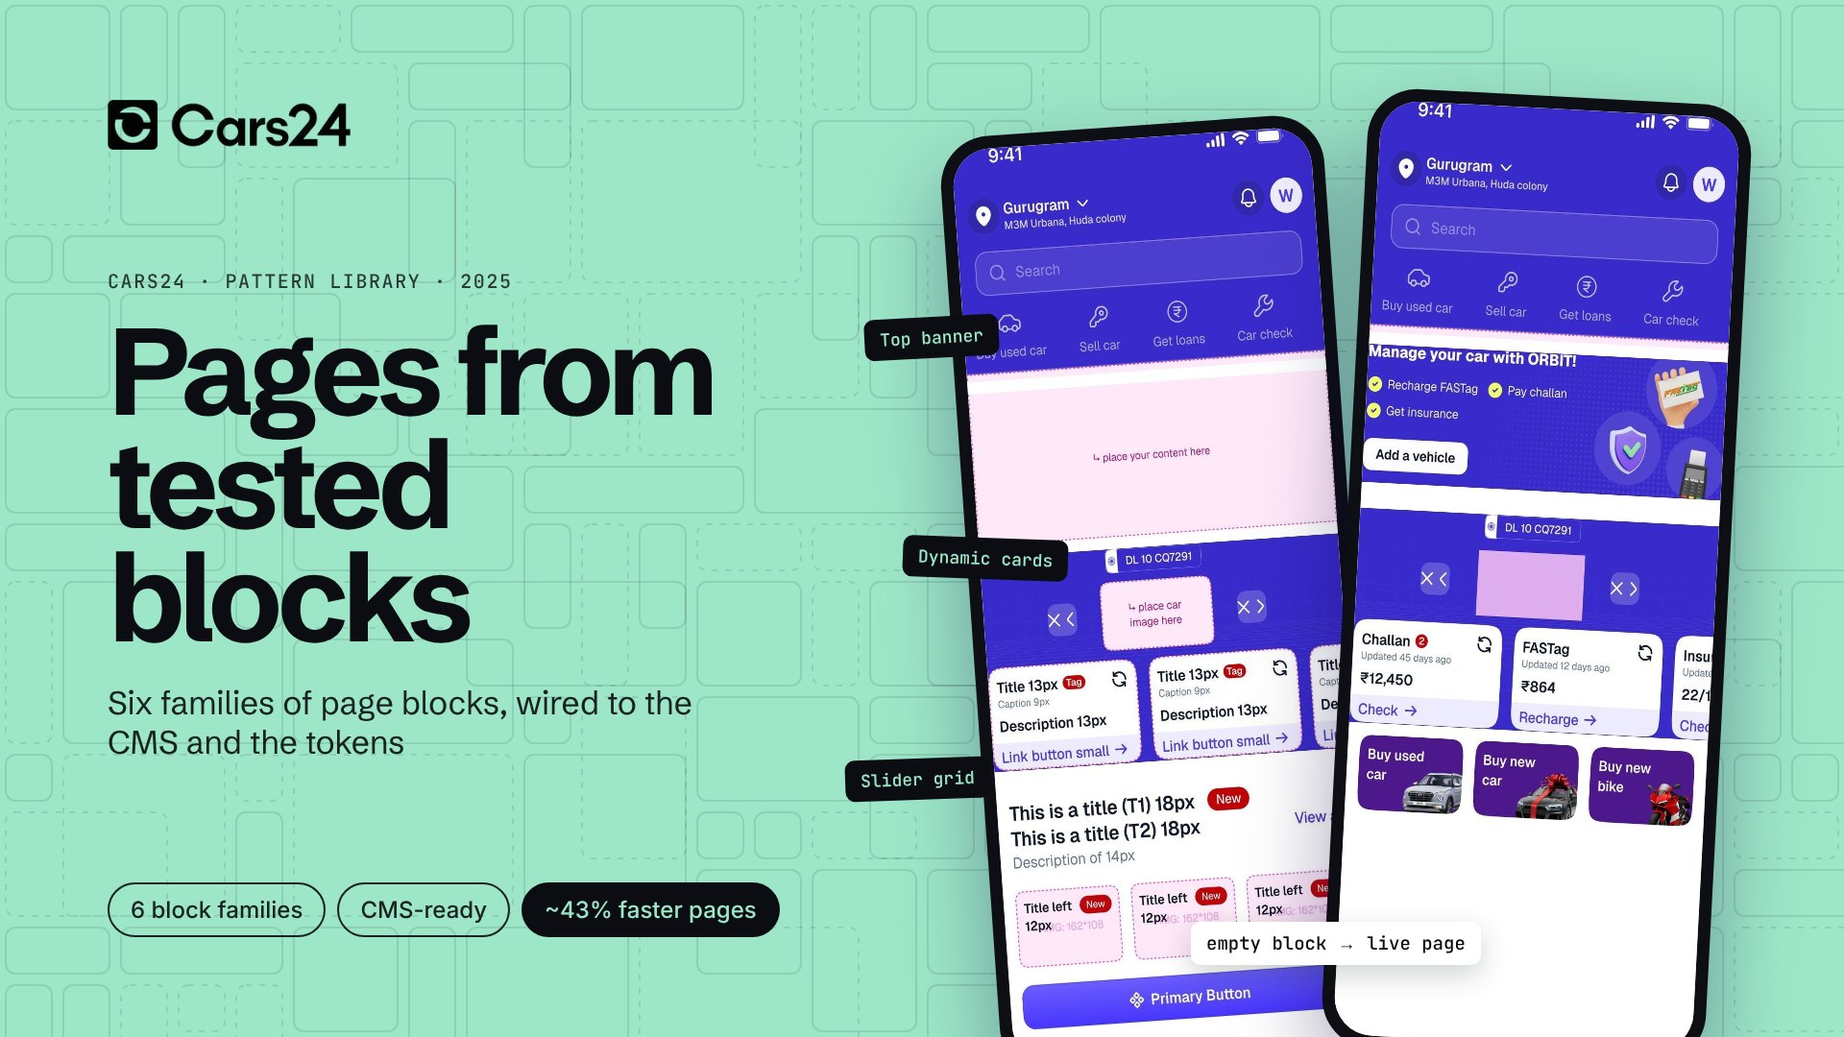
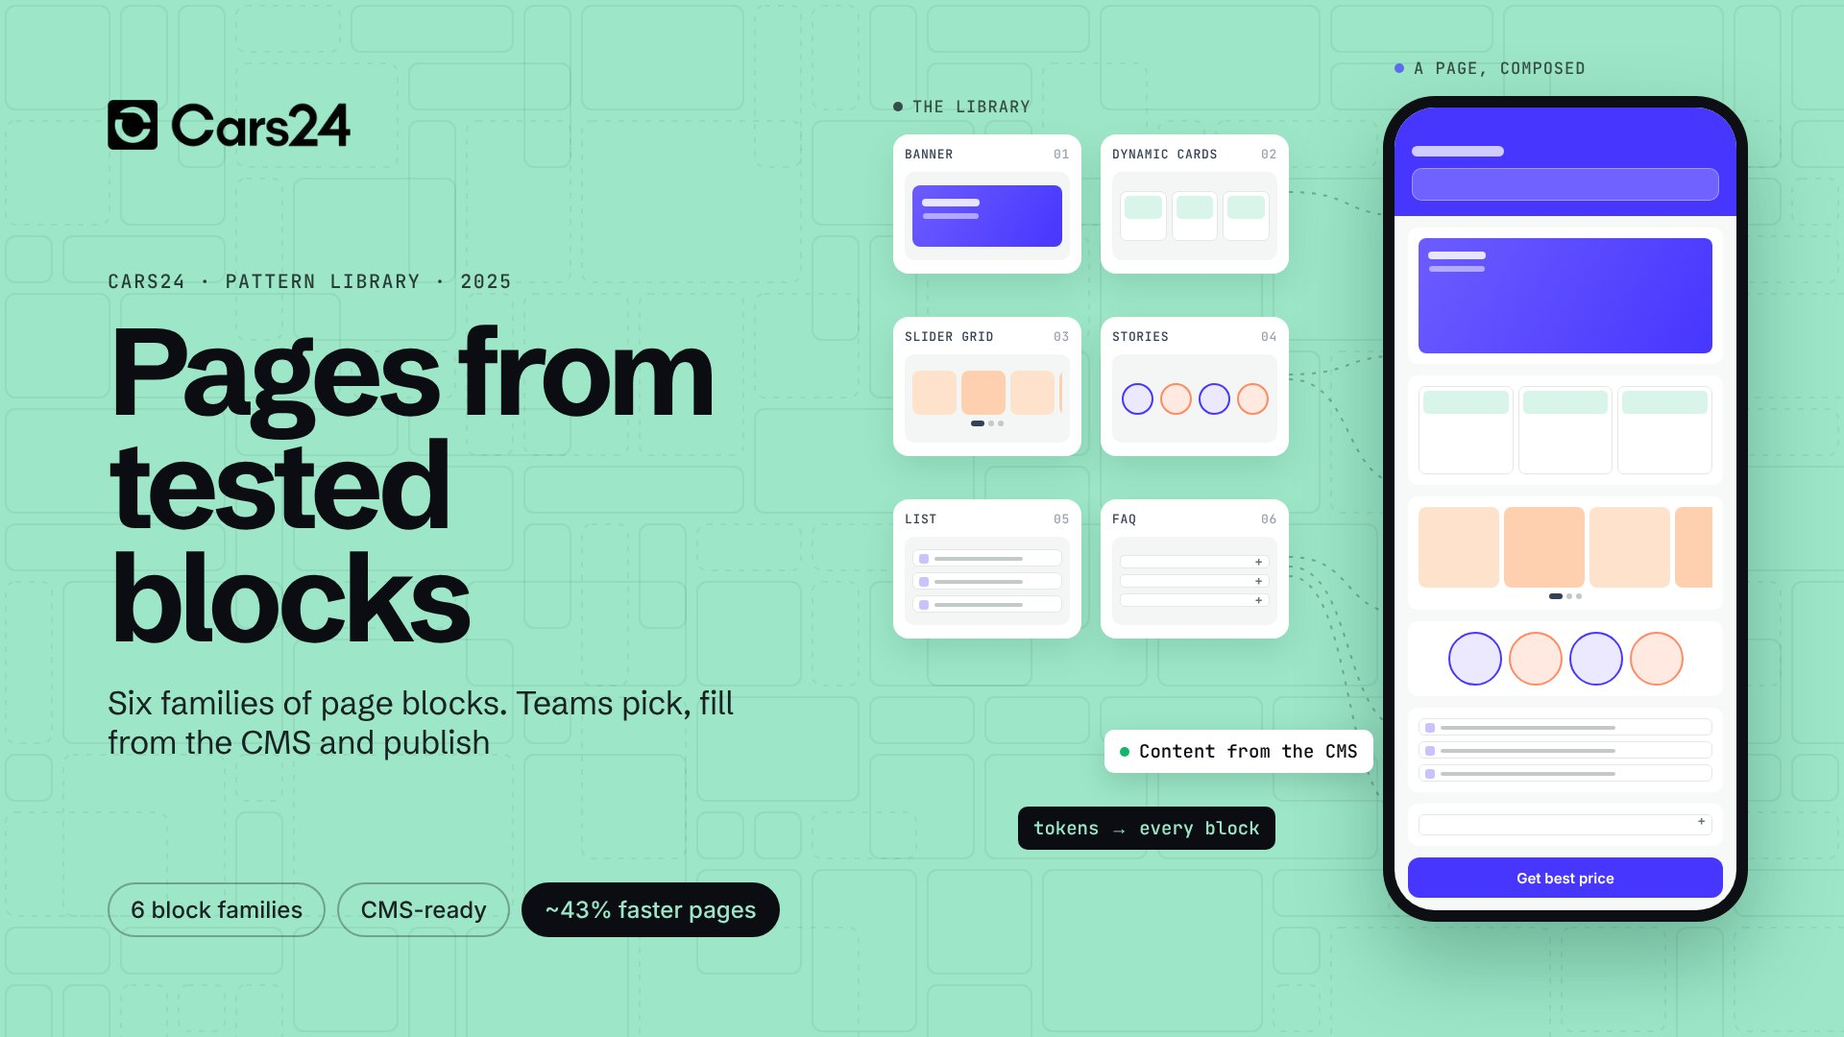
Redraw the colour system and pattern library cards as illustrations
The two cards used cropped screenshots that read as broken. Both are now
drawn illustrations that tell the story at a glance, in softer colours:

- Colour system: five near-identical blues from five codebases merge
  into one token (with its OKLCH ramp), which flows into three app
  screens for India, the UAE (right to left) and Australia.
- Pattern library: the six block families as small wireframes, linked
  to a phone page composed from those same blocks, with "content from
  the CMS" and "tokens → every block".

Backgrounds are quieter (a soft glow with a dot grid, and a fainter
block grid). Also removes leftover ramp code that stopped the
governance card's background lines from drawing.

Claude-Session: https://claude.ai/code/session_01QAnL3MhnS9saJHDLA9Mmcj

diff --git a/tools/covers/cars24_cards.html b/tools/covers/cars24_cards.html
@@ -59,6 +59,68 @@ img { display: block; }
 /* ---------- pattern library ---------- */
 #pat { background: #9de7c8; color: #0b0d12; }
 .blk { font: 500 18px "JetBrains Mono"; padding: 10px 16px; border-radius: 10px; background: #0b0d12; color: #9de7c8; z-index: 3; white-space: nowrap; }
+
+/* ---------- shared illustration bits ---------- */
+.mp { width: 236px; height: 486px; border-radius: 38px; padding: 9px; background: #0e0f14; box-shadow: 0 30px 60px rgb(10 0 60 / .28); z-index: 2; }
+.mp .sc { height: 100%; border-radius: 30px; overflow: hidden; background: #f7f7fb; display: flex; flex-direction: column; font-family: Inter, sans-serif; }
+.mp .hd { background: var(--b, #4736fe); padding: 26px 14px 14px; display: grid; gap: 10px; }
+.mp .loc { height: 9px; width: 70px; border-radius: 5px; background: rgb(255 255 255 / .75); }
+.mp .srch { height: 26px; border-radius: 8px; background: rgb(255 255 255 / .22); border: 1px solid rgb(255 255 255 / .35); }
+.mp .tabs { display: flex; justify-content: space-between; padding: 2px 4px 0; }
+.mp .tabs i { width: 30px; height: 20px; border-radius: 6px; background: rgb(255 255 255 / .3); }
+.mp .tabs i:first-child { background: #fff; }
+.mp .bd { padding: 14px 12px; display: grid; gap: 10px; }
+.mp .h { height: 10px; width: 96px; border-radius: 5px; background: #1d2433; }
+.mp .tiles { display: grid; grid-template-columns: repeat(3, 1fr); gap: 7px; }
+.mp .tiles i { height: 54px; border-radius: 10px; background: var(--b, #4736fe); opacity: .9; }
+.mp .tiles i:nth-child(2) { opacity: .7; } .mp .tiles i:nth-child(3) { opacity: .5; }
+.mp .lc { background: #fff; border-radius: 12px; padding: 10px; display: grid; gap: 7px; border: 1px solid #ececf3; }
+.mp .lc .im { height: 58px; border-radius: 8px; background: linear-gradient(135deg, #e6e3ff, #f4f3ff); position: relative; }
+.mp .lc .im b { position: absolute; left: 6px; top: 6px; font: 600 8px Inter; padding: 2px 6px; border-radius: 4px; background: #5dfda6; color: #10322a; }
+.mp .lc .t { height: 7px; width: 80%; border-radius: 4px; background: #c9ccd6; }
+.mp .lc .pr { font: 700 13px Inter; color: #101828; }
+.mp .lc .pr span { font: 500 9px Inter; color: #b54708; margin-left: 6px; }
+.mp .cta { margin-top: 2px; height: 30px; border-radius: 9px; background: var(--b, #4736fe); color: #fff; font: 600 11px Inter; display: grid; place-items: center; }
+.mkt { font: 500 17px "JetBrains Mono"; letter-spacing: .06em; text-transform: uppercase; z-index: 3; display: flex; gap: 10px; align-items: center; }
+.mkt i { width: 10px; height: 10px; border-radius: 50%; background: #5dfda6; }
+.hex { display: flex; align-items: center; gap: 12px; padding: 12px 16px; border-radius: 14px; background: rgb(255 255 255 / .10); border: 1px solid rgb(255 255 255 / .16); z-index: 3; }
+.hex i { width: 30px; height: 30px; border-radius: 8px; flex: none; }
+.hex b { display: block; font: 500 18px "JetBrains Mono"; }
+.hex small { display: block; font: 400 13px "JetBrains Mono"; opacity: .7; margin-top: 2px; }
+.tokpill { display: flex; align-items: center; gap: 16px; padding: 16px 22px 16px 16px; border-radius: 18px; background: #fff; color: #101828; box-shadow: 0 24px 60px rgb(10 0 60 / .3); z-index: 3; }
+.tokpill i { width: 48px; height: 48px; border-radius: 12px; background: #4736fe; }
+.tokpill b { display: block; font: 500 26px "JetBrains Mono"; }
+.tokpill small { display: block; font: 400 15px "JetBrains Mono"; color: #667085; margin-top: 2px; }
+.mramp { display: flex; gap: 4px; z-index: 3; }
+.mramp i { width: 30px; height: 14px; border-radius: 4px; }
+
+/* pattern library illustration */
+.fam { width: 196px; background: #fff; border-radius: 16px; padding: 12px 12px 14px; box-shadow: 0 14px 34px rgb(0 60 40 / .12); z-index: 3; display: grid; gap: 10px; }
+.fam .lab { font: 500 13px "JetBrains Mono"; letter-spacing: .05em; text-transform: uppercase; color: #344054; display: flex; justify-content: space-between; }
+.fam .lab em { font-style: normal; color: #98a2b3; }
+.wf { border-radius: 10px; background: #f4f6f5; padding: 8px; display: grid; gap: 6px; height: 92px; align-content: center; }
+.wf .bn { height: 64px; border-radius: 8px; background: linear-gradient(120deg, #6c5cff, #4736fe); position: relative; }
+.wf .bn::after { content: ""; position: absolute; left: 10px; top: 14px; width: 60px; height: 8px; border-radius: 4px; background: rgb(255 255 255 / .85); box-shadow: 0 14px 0 -1px rgb(255 255 255 / .5); }
+.wf .row3 { display: grid; grid-template-columns: repeat(3, 1fr); gap: 5px; }
+.wf .row3 i { height: 52px; border-radius: 7px; background: #fff; border: 1px solid #e3e8e6; }
+.wf .row3 i::before { content: ""; display: block; height: 24px; margin: 4px; border-radius: 5px; background: #d9f5e9; }
+.wf .sl { display: flex; gap: 5px; overflow: hidden; }
+.wf .sl i { flex: none; width: 46px; height: 46px; border-radius: 8px; background: #ffe2cc; }
+.wf .sl i:nth-child(2n) { background: #ffd0b0; }
+.wf .dots { display: flex; gap: 4px; justify-content: center; } .wf .dots i { width: 6px; height: 6px; border-radius: 50%; background: #c2c9c6; } .wf .dots i:first-child { background: #344054; width: 14px; border-radius: 3px; }
+.wf .ls { height: 18px; border-radius: 6px; background: #fff; border: 1px solid #e3e8e6; position: relative; }
+.wf .ls::before { content: ""; position: absolute; left: 6px; top: 4px; width: 10px; height: 10px; border-radius: 3px; background: #c9c2ff; }
+.wf .ls::after { content: ""; position: absolute; left: 22px; top: 7px; width: 60%; height: 4px; border-radius: 2px; background: #c2c9c6; }
+.wf .st { display: flex; gap: 7px; justify-content: center; } .wf .st i { width: 33px; height: 33px; border-radius: 50%; border: 2.5px solid #4736fe; background: #ece9ff; } .wf .st i:nth-child(2n) { border-color: #ff8a63; background: #ffe9e1; }
+.wf .fq { height: 14px; border-radius: 5px; background: #fff; border: 1px solid #e3e8e6; position: relative; } .wf .fq::after { content: "+"; position: absolute; right: 6px; top: -3px; font: 600 13px Inter; color: #667085; }
+.pp { width: 380px; height: 860px; border-radius: 54px; padding: 12px; background: #0e0f14; box-shadow: 0 40px 90px rgb(0 60 40 / .3); z-index: 2; }
+.pp .sc { height: 100%; border-radius: 42px; overflow: hidden; background: #f7f8f8; display: flex; flex-direction: column; gap: 12px; }
+.pp .hd { background: #4736fe; padding: 40px 18px 16px; display: grid; gap: 12px; }
+.pp .hd .loc { height: 11px; width: 96px; border-radius: 6px; background: rgb(255 255 255 / .75); }
+.pp .hd .srch { height: 34px; border-radius: 10px; background: rgb(255 255 255 / .22); border: 1px solid rgb(255 255 255 / .35); }
+.pp .blk2 { margin: 0 14px; position: relative; }
+.pp .blk2.wf { height: auto; padding: 10px; background: #fff; border: 1.5px dashed transparent; }
+.tagl { font: 500 15px "JetBrains Mono"; padding: 7px 12px; border-radius: 8px; background: #0b0d12; color: #9de7c8; white-space: nowrap; z-index: 4; }
 </style>
 </head>
 <body>
@@ -66,30 +128,33 @@ img { display: block; }
 <!-- ======================= Colour system ======================= -->
 <section class="scene" id="tokens">
   <svg class="pat" aria-hidden="true"><defs>
-    <radialGradient id="tf" cx="78%" cy="45%" r="70%"><stop offset="0" stop-color="#fff" stop-opacity="1"/><stop offset="1" stop-color="#fff" stop-opacity="0"/></radialGradient>
+    <radialGradient id="tg" cx="80%" cy="20%" r="75%"><stop offset="0" stop-color="#7c6dff"/><stop offset="1" stop-color="#4736fe" stop-opacity="0"/></radialGradient>
+    <radialGradient id="tf" cx="70%" cy="55%" r="60%"><stop offset="0" stop-color="#fff"/><stop offset="1" stop-color="#fff" stop-opacity="0"/></radialGradient>
     <mask id="tm"><rect width="1920" height="1080" fill="url(#tf)"/></mask>
-    <pattern id="tp" width="40" height="40" patternUnits="userSpaceOnUse"><rect x="4" y="4" width="32" height="32" rx="8" fill="#fff" fill-opacity=".09"/></pattern></defs>
+    <pattern id="tp" width="32" height="32" patternUnits="userSpaceOnUse"><circle cx="16" cy="16" r="1.6" fill="#fff" fill-opacity=".22"/></pattern></defs>
+    <rect width="1920" height="1080" fill="url(#tg)"/>
     <rect width="1920" height="1080" fill="url(#tp)" mask="url(#tm)"/>
-    <g fill="none" stroke="#9de7c8" stroke-opacity=".35" stroke-width="2"><circle cx="1500" cy="540" r="470"/><circle cx="1500" cy="540" r="390" stroke-dasharray="4 12"/></g>
   </svg>
+  <svg class="pat" aria-hidden="true" id="tlines" style="z-index:1"></svg>
   <div class="col">
     <img class="logo" src="../../assets/logos/wordmark-cars24.png" alt="">
-    <div class="mid"><p class="eyebrow">CARS24 · Colour and tokens · 2024–25</p><h1>One colour system</h1><p class="sub">A new palette in OKLCH and four token layers, for 10+ products in three countries</p></div>
-    <div class="row"><span class="chip">10+ products</span><span class="chip">4 token layers</span><span class="chip solid" style="background:#5dfda6;border-color:#5dfda6;color:#1a1060">65% faster handoff</span></div>
+    <div class="mid"><p class="eyebrow">CARS24 · Colour and tokens · 2024–25</p><h1>One colour system</h1><p class="sub">Five blues in five codebases became one token, used by every product in three countries</p></div>
+    <div class="row"><span class="chip" style="border-color:rgb(255 255 255 / .45)">10+ products</span><span class="chip" style="border-color:rgb(255 255 255 / .45)">4 token layers</span><span class="chip solid" style="background:#5dfda6;border-color:#5dfda6;color:#1a1060">65% faster handoff</span></div>
   </div>
-  <div class="card" style="left:930px;top:150px;width:860px;transform:rotate(-2deg)">
-    <div style="padding:22px 26px 14px;display:flex;justify-content:space-between"><span class="k">color-blue · OKLCH ramp</span><span class="k" style="color:#4736fe">500 = brand</span></div>
-    <div class="ramp" id="ramp"></div>
-  </div>
-  <div class="card" style="left:1010px;top:470px;width:760px;transform:rotate(1.5deg)">
-    <div class="chain">
-      <div class="lvl"><span>Primitive</span><code><i class="sw"></i>color-blue-500</code></div>
-      <div class="lvl"><span>Semantic</span><code>color-action-primary</code></div>
-      <div class="lvl"><span>Component</span><code>button-background-primary</code></div>
-      <div class="lvl"><span>Theme</span><code style="background:#e9fbf3;color:#0a6b47">india · uae · au · nbfc</code></div>
-    </div>
-  </div>
-  <div class="card" style="left:1460px;top:770px;width:360px;height:220px;transform:rotate(-3deg);z-index:3"><img src="../../assets/work/tokens/hero.jpg" style="width:200%;margin-left:-100%;margin-top:-30px"></div>
+  <div class="mkt" style="left:930px;top:96px;opacity:.75"><i style="background:#ffb4a1"></i>Before · one blue, five codes</div>
+  <div class="hex" style="left:930px;top:140px"><i style="background:#0059A3"></i><div><b>#0059A3</b><small>seller/colors.ts</small></div></div>
+  <div class="hex" style="left:1110px;top:150px"><i style="background:#005AA5"></i><div><b>#005AA5</b><small>loans/theme.js</small></div></div>
+  <div class="hex" style="left:1290px;top:140px"><i style="background:#0058A1"></i><div><b>#0058A1</b><small>buyer/_vars.scss</small></div></div>
+  <div class="hex" style="left:1470px;top:150px"><i style="background:#0A5BA4"></i><div><b>#0A5BA4</b><small>uae/styles.css</small></div></div>
+  <div class="hex" style="left:1650px;top:140px;padding-right:12px"><i style="background:#0059A4"></i><div><b>#0059A4</b><small>new-cars.json</small></div></div>
+  <div class="tokpill" style="left:1140px;top:290px"><i></i><div><b>color-brand-primary</b><small>one token · OKLCH · every product</small></div></div>
+  <div class="mramp" id="mramp" style="left:1196px;top:392px"></div>
+  <div class="mkt" style="left:960px;top:470px"><i></i>India · ₹</div>
+  <div class="mkt" style="left:1268px;top:470px"><i></i>UAE · AED</div>
+  <div class="mkt" style="left:1576px;top:470px"><i></i>Australia · $</div>
+  <div class="mp" style="left:950px;top:510px"><div class="sc"><div class="hd"><div class="loc"></div><div class="srch"></div><div class="tabs"><i></i><i></i><i></i><i></i></div></div><div class="bd"><div class="h"></div><div class="tiles"><i></i><i></i><i></i></div><div class="lc"><div class="im"><b>Assured</b></div><div class="t"></div><div class="pr">₹9.85 lakh<span>EMI ₹15,640</span></div></div><div class="cta">Get best price</div></div></div></div>
+  <div class="mp" style="left:1258px;top:510px"><div class="sc"><div class="hd"><div class="loc" style="margin-left:auto"></div><div class="srch"></div><div class="tabs"><i></i><i></i><i></i><i></i></div></div><div class="bd"><div class="h" style="margin-left:auto"></div><div class="tiles"><i></i><i></i><i></i></div><div class="lc" dir="rtl"><div class="im"><b style="left:auto;right:6px">مضمونة</b></div><div class="t"></div><div class="pr" style="font-family:Inter">AED 54,900</div></div><div class="cta">احصل على أفضل سعر</div></div></div></div>
+  <div class="mp" style="left:1566px;top:510px"><div class="sc"><div class="hd"><div class="loc"></div><div class="srch"></div><div class="tabs"><i></i><i></i><i></i><i></i></div></div><div class="bd"><div class="h"></div><div class="tiles"><i></i><i></i><i></i></div><div class="lc"><div class="im"><b>Certified</b></div><div class="t"></div><div class="pr">$24,990<span>drive away</span></div></div><div class="cta">View car</div></div></div></div>
 </section>
 
 <!-- ======================= Governance ======================= -->
@@ -124,23 +189,37 @@ img { display: block; }
 <!-- ======================= Pattern library ======================= -->
 <section class="scene" id="pat">
   <svg class="pat" aria-hidden="true" id="blocks"></svg>
+  <svg class="pat" aria-hidden="true" id="plines" style="z-index:1"></svg>
   <div class="col">
     <img class="logo dark" src="../../assets/logos/wordmark-cars24.png" alt="">
-    <div class="mid"><p class="eyebrow">CARS24 · Pattern library · 2025</p><h1>Pages from tested blocks</h1><p class="sub">Six families of page blocks, wired to the CMS and the tokens</p></div>
-    <div class="row"><span class="chip">6 block families</span><span class="chip">CMS-ready</span><span class="chip solid" style="background:#0b0d12;border-color:#0b0d12;color:#9de7c8">~43% faster pages</span></div>
+    <div class="mid"><p class="eyebrow">CARS24 · Pattern library · 2025</p><h1>Pages from tested blocks</h1><p class="sub">Six families of page blocks. Teams pick, fill from the CMS and publish</p></div>
+    <div class="row"><span class="chip" style="border-color:rgb(11 13 18 / .35)">6 block families</span><span class="chip" style="border-color:rgb(11 13 18 / .35)">CMS-ready</span><span class="chip solid" style="background:#0b0d12;border-color:#0b0d12;color:#9de7c8">~43% faster pages</span></div>
   </div>
-  <div class="ph" style="left:1010px;top:130px;width:400px;height:980px;transform:rotate(-4deg)"><div class="s"><img src="../../assets/work/patterns/home-system.jpg"></div></div>
-  <div class="ph" style="left:1400px;top:100px;width:400px;height:1000px;transform:rotate(3deg)"><div class="s"><img src="../../assets/work/patterns/home-live.jpg"></div></div>
-  <div class="blk" style="left:900px;top:330px;transform:rotate(-3deg)">Top banner</div>
-  <div class="blk" style="left:940px;top:560px;transform:rotate(2deg)">Dynamic cards</div>
-  <div class="blk" style="left:880px;top:790px;transform:rotate(-2deg)">Slider grid</div>
-  <div class="pill" style="left:1240px;top:960px;background:#fff;color:#0b0d12;box-shadow:0 10px 30px rgb(0 40 20 / .2)">empty block → live page</div>
+  <div class="mkt" style="left:930px;top:100px;color:#0b0d12;opacity:.7"><i style="background:#0b0d12"></i>The library</div>
+  <div class="fam" style="left:930px;top:140px"><div class="lab">Banner<em>01</em></div><div class="wf"><div class="bn"></div></div></div>
+  <div class="fam" style="left:1146px;top:140px"><div class="lab">Dynamic cards<em>02</em></div><div class="wf"><div class="row3"><i></i><i></i><i></i></div></div></div>
+  <div class="fam" style="left:930px;top:330px"><div class="lab">Slider grid<em>03</em></div><div class="wf"><div class="sl"><i></i><i></i><i></i><i></i></div><div class="dots"><i></i><i></i><i></i></div></div></div>
+  <div class="fam" style="left:1146px;top:330px"><div class="lab">Stories<em>04</em></div><div class="wf"><div class="st"><i></i><i></i><i></i><i></i></div></div></div>
+  <div class="fam" style="left:930px;top:520px"><div class="lab">List<em>05</em></div><div class="wf"><div class="ls"></div><div class="ls"></div><div class="ls"></div></div></div>
+  <div class="fam" style="left:1146px;top:520px"><div class="lab">FAQ<em>06</em></div><div class="wf"><div class="fq"></div><div class="fq"></div><div class="fq"></div></div></div>
+  <div class="mkt" style="left:1452px;top:60px;color:#0b0d12;opacity:.7"><i style="background:#4736fe"></i>A page, composed</div>
+  <div class="pp" style="left:1440px;top:100px"><div class="sc">
+    <div class="hd"><div class="loc"></div><div class="srch"></div></div>
+    <div class="blk2 wf" id="pb1"><div class="bn" style="height:120px"></div></div>
+    <div class="blk2 wf" id="pb2"><div class="row3"><i style="height:92px"></i><i style="height:92px"></i><i style="height:92px"></i></div></div>
+    <div class="blk2 wf" id="pb3"><div class="sl"><i style="width:84px;height:84px"></i><i style="width:84px;height:84px"></i><i style="width:84px;height:84px"></i><i style="width:84px;height:84px"></i></div><div class="dots"><i></i><i></i><i></i></div></div>
+    <div class="blk2 wf" id="pb4"><div class="st"><i style="width:56px;height:56px"></i><i style="width:56px;height:56px"></i><i style="width:56px;height:56px"></i><i style="width:56px;height:56px"></i></div></div>
+    <div class="blk2 wf" id="pb5"><div class="ls"></div><div class="ls"></div><div class="ls"></div></div>
+    <div class="blk2 wf" id="pb6"><div class="fq" style="height:22px"></div></div>
+    <div class="blk2" style="height:42px;border-radius:12px;background:#4736fe;color:#fff;font:600 15px Inter;display:grid;place-items:center">Get best price</div>
+  </div></div>
+  <div class="pill" style="left:1150px;top:760px;background:#fff;color:#0b0d12;box-shadow:0 10px 30px rgb(0 40 20 / .16);display:flex;gap:10px;align-items:center"><span style="width:10px;height:10px;border-radius:50%;background:#12b76a;display:inline-block"></span>Content from the CMS</div>
+  <div class="pill" style="left:1060px;top:840px;background:#0b0d12;color:#9de7c8">tokens → every block</div>
 </section>
 
 <script>
 /* ramp */
 var steps = [["50","#f1f0ff"],["100","#dcd9ff"],["200","#bdb6ff"],["300","#998eff"],["400","#7466ff"],["500","#4736fe"],["600","#3a26e0"],["700","#2e1db4"],["800","#231788"],["900","#19105e"]];
-document.getElementById("ramp").innerHTML = steps.map(function (s, i) { return '<div style="background:' + s[1] + ';color:' + (i < 4 ? "#2e1db4" : "#fff") + '">' + s[0] + '</div>'; }).join("");
 var NS = "http://www.w3.org/2000/svg";
 function el(svg, tag, a) { var e = document.createElementNS(NS, tag); for (var k in a) e.setAttribute(k, a[k]); svg.appendChild(e); return e; }
 /* governance: many request lines converging on one front door */
@@ -161,7 +240,7 @@ function el(svg, tag, a) { var e = document.createElementNS(NS, tag); for (var k
 /* pattern library: a modular block grid, like an empty page layout */
 (function () {
   var s = document.getElementById("blocks"); el(s, "rect", { width: 1920, height: 1080, fill: "#9de7c8" });
-  var g = el(s, "g", { fill: "none", stroke: "#0b0d12", "stroke-opacity": ".10", "stroke-width": "2" });
+  var g = el(s, "g", { fill: "none", stroke: "#0b0d12", "stroke-opacity": ".06", "stroke-width": "2" });
   var seed = 7; function r() { seed = (seed * 9301 + 49297) % 233280; return seed / 233280; }
   var U = 60, cols = 32, rows = 18, used = {};
   for (var y = 0; y < rows; y++) for (var x = 0; x < cols; x++) {
@@ -170,6 +249,23 @@ function el(svg, tag, a) { var e = document.createElementNS(NS, tag); for (var k
     for (var a = 0; a < w; a++) for (var b = 0; b < h; b++) used[(x + a) + "," + (y + b)] = 1;
     el(g, "rect", { x: x * U + 6, y: y * U + 6, width: w * U - 12, height: h * U - 12, rx: 10, "stroke-dasharray": r() > .6 ? "6 8" : "none" });
   }
+})();
+
+/* token story: five codes → one token → three markets */
+(function () {
+  var r = document.getElementById("mramp");
+  if (r) r.innerHTML = steps.map(function (st) { return '<i style="background:' + st[1] + '"></i>'; }).join("");
+  var s = document.getElementById("tlines"), g = el(s, "g", { fill: "none", stroke: "#fff", "stroke-width": "2", "stroke-opacity": ".45", "stroke-dasharray": "3 7" });
+  [1010, 1190, 1370, 1550, 1730].forEach(function (x) { el(g, "path", { d: "M" + x + " 214 C" + x + " 260 1330 250 1330 288" }); });
+  var g2 = el(s, "g", { fill: "none", stroke: "#5dfda6", "stroke-width": "2.5", "stroke-opacity": ".8" });
+  [1068, 1376, 1684].forEach(function (x) { el(g2, "path", { d: "M1330 418 C1330 450 " + x + " 440 " + x + " 466" }); });
+})();
+/* pattern library: link families to the page */
+(function () {
+  var s = document.getElementById("plines"), g = el(s, "g", { fill: "none", stroke: "#0b0d12", "stroke-width": "2", "stroke-opacity": ".28", "stroke-dasharray": "4 8" });
+  [[1342, 200, 1466, 225], [1342, 390, 1466, 370], [1342, 395, 1466, 505], [1342, 580, 1466, 640], [1342, 590, 1466, 760], [1342, 600, 1466, 850]].forEach(function (p) {
+    el(g, "path", { d: "M" + p[0] + " " + p[1] + " C" + (p[0] + 70) + " " + p[1] + " " + (p[2] - 70) + " " + p[3] + " " + p[2] + " " + p[3] });
+  });
 })();
 function show(id) { document.querySelectorAll(".scene").forEach(function (s) { s.classList.toggle("on", s.id === id); }); }
 show("tokens");
